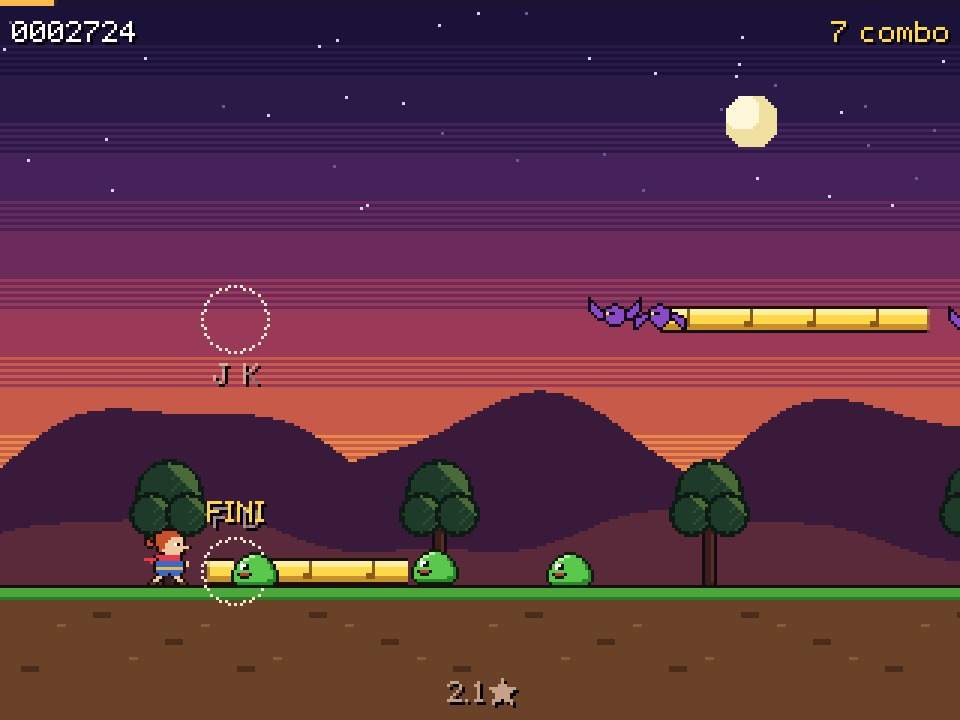
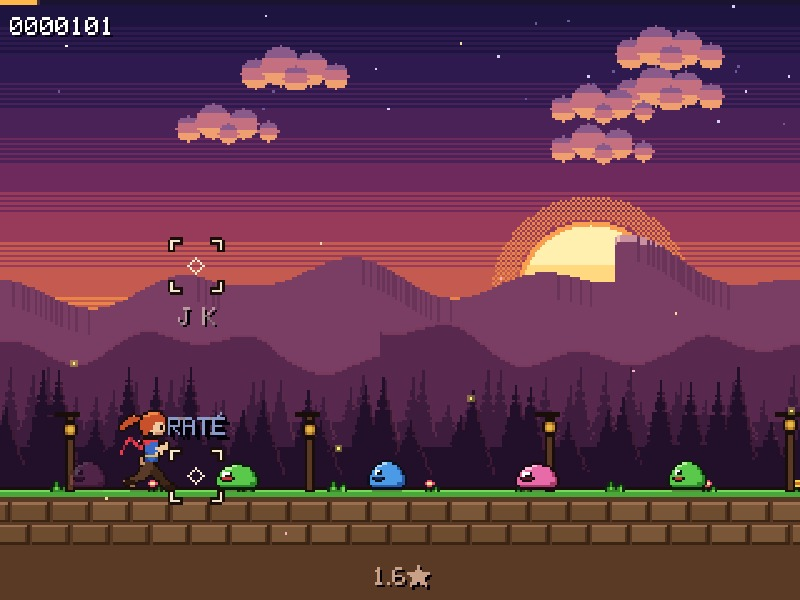
Nouvelle coureuse (course en 6 images, saut, coups d'épée, touchée) et nouveau décor animé (coucher de soleil, montagnes et forêts qui défilent, nuages, oiseaux, lanternes au rythme, pétales)

diff --git a/index.js b/index.js
@@ -1058,17 +1058,11 @@ function cvUp(kind, now) {  // lâcher : un ruban en cours s'arrête là (sauf d
   now ??= rhNow();
   for (const n of rh.notes) if (n.holding && n.kind === kind) { cvSettle(n, now); n.holding = false; n.done = true; if (now < n.end - .1) n.broke = true; else cvFx(n, [0, 'FINI', 0, '#ffd84a'], true); }
 }
-/* le dessin : ciel du soir, nuages, montagnes, collines qui défilent, chemin ; la coureuse à gauche, les cibles sur les deux voies */
-const CV_PAL = {k: '#1a0e0a', h: '#c8502a', H: '#f08a4a', s: '#f0c8a0', S: '#c8906a', w: '#ffffff', e: '#1a0e0a', r: '#e83a4a', R: '#a82a3a', b: '#3a6ac8', B: '#2a4a98', y: '#e8b84a', p: '#5a3a28'};
-const CV_TOP = ['.......kkkkk........', '.....kkhhhhhkk......', '....khhHHHhhhhk.....', '...khhHHhhhhhhhk....', '...khhhhhhhhhsssk...', '..khhhhhhhhsssssk...', '..khhhhhhhsssswesk..', '..khhhkhhhsssswesk..', '...khhhhhsssssSSk...', '....khhhkkksssk.....',
-  '...krrrrrrrrrrrk....', '...kRRrrrrrrrrRk....', '....kbbbbbbbbbkss...', '...kbbbbbbbbbbbkss..', '...kBbbbbbbbbbbkk...', '...kyyyyyyyyyyyk....', '...kBbbbbbbbbbBk....', '....kBBbbbbbBBk.....'];
-const CV_HERO = legs => spr([...CV_TOP, ...legs], CV_PAL);
-const CV_RUN = [  // quatre images de course : grande foulée, passage, l'autre foulée, genou levé
-  CV_HERO(['...kssk....kssk.....', '..kssk......kssk....', '.kppk........kppk...', '.kppk.........kppk..', '.kkkk..........kkkk.']),
-  CV_HERO(['......ksssk.........', '......kssssk........', '.......kppk.........', '......kpppk.........', '......kkkkkk........']),
-  CV_HERO(['....kssk..kssk......', '...kssk....kssk.....', '..kppk......kppk....', '..kppk.......kppk...', '.kkkk.........kkkk..']),
-  CV_HERO(['......kssskssk......', '......kssk.ksk......', '......kppk.kppk.....', '.....kppk..kkkk.....', '.....kkkk...........'])];
-const CV_JUMP = CV_HERO(['.....kssk.kssk......', '....kppk...kppk.....', '....kkkk....kppk....', '.............kkk....', '....................']);
+/* le dessin : coucher de soleil, trois rangées de montagnes, deux forêts de sapins, nuages et oiseaux, chemin pavé avec ses lanternes ; tout défile
+   à sa vitesse (plus c'est loin, plus c'est lent) et bat la mesure ; la coureuse à gauche, les cibles sur les deux voies */
+const CV_PAL = {k: '#1a0e0a', h: '#c8502a', H: '#f08a4a', s: '#f0c8a0', S: '#c8906a', e: '#1a0e0a', b: '#3a6ac8', B: '#2a4a98', l: '#8ab8ff', y: '#e8b84a', r: '#e83a4a', R: '#a82a3a', p: '#5a3a28', P: '#3e2618', q: '#2a1810', c: '#e8f0ff', g: '#e8b84a'};
+const CV_F = Object.fromEntries(Object.entries({run0: ['..............................', '.............kkkkk............', '.......k...kkHHHHhk...........', '.....kkHkkkHHHhhhhhk..........', '....khhhhhkhhhhhhhhhk.........', '...khhhhhkhhhhhhhhhhk.........', '..khhhhkkkhhhhhhssshk.........', '.khhhkk..khhhhhsssesk.........', '.khhk....khhhhhsssesk.........', '..kk......khhhsssssSk.........', '..........khhkksSSSk..........', '...........kk..kkkk...........', '...........kkkkkk.............', '..........krrrrrrk..k.........', '..........kRrbbrRkkkSk........', '...........kbbblbkSSSk........', '...........kbbbblkSSSk........', '...........kbbbbbkSkk.........', '...........ksbbbbkSk..........', '..........kssbyyykk...........', '.........ksssbbbBk............', '.........ksssBbBBk............', '.........ksspppkk.............', '..........kPppppk.............', '.........kPPpppppk............', '.........kPPPpppppk...........', '........kPPPPPpppppk..........', '......kkPPPPPkkppppk..........', '....kkPPPPPPk..kppppk.........', '...kqqqqPkkk....kkpppk........', '...kqqqqk........kppppkk......', '....kkkk..........kpqqqqk.....', '...................kqqqqk.....', '....................kkkk......'], run3: ['..............................', '.............kkkkk............', '.......k...kkHHHHhk...........', '.....kkHkkkHHHhhhhhk..........', '....khhhhhkhhhhhhhhhk.........', '...khhhhhkhhhhhhhhhhk.........', '..khhhhkkkhhhhhhssshk.........', '.khhhkk..khhhhhsssesk.........', '.khhk....khhhhhsssesk.........', '..kk......khhhsssssSk.........', '..........khhkksSSSk..........', '...........kk..kkkk...........', '...........kkkkkk.............', '..........krrrrrrk..k.........', '..........kRrrbbbkkksk........', '...........kbbbbbksssk........', '...........kbbbbsssssk........', '...........kbbbbbsskk.........', '...........kBbbbsksk..........', '..........kkyyyyykk...........', '.........kSkBbbbBk............', '.........kSkBBbBBk............', '.........kSSpppkk.............', '..........kppppPk.............', '.........kpppppPPk............', '.........kppppPPPPk...........', '........kpppppPPPPPk..........', '......kkpppppkkPPPPk..........', '....kkppppppk..kPPPPk.........', '...kqqqqpkkk....kkPPPk........', '...kqqqqk........kPPPPkk......', '....kkkk..........kPqqqqk.....', '...................kqqqqk.....', '....................kkkk......'], run1: ['..............................', '..............................', '.............kkkkk............', '...........kkHHHHhk...........', '......kkkkkHHHhhhhhk..........', '....kkhHhhkhhhhhhhhhk.........', '...khhhhhkhhhhhhhhhhk.........', '..khhhhkkkhhhhhhssshk.........', '.khhhhk..khhhhhsssesk.........', '.khhhk...khhhhhsssesk.........', '.khhk.....khhhsssssSk.........', '..kk......khhkksSSSk..........', '...........kk..kkkk...........', '...........kkkkkk.............', '..........krrrbrrk............', '..........kRrbbrRkk...........', '...........kbbblbkSk..........', '...........kbbbblkSk..........', '...........kbbbbbkSk..........', '...........kBbbbbkk...........', '...........ksbsyyk............', '...........ksbsbBk............', '...........ksBsBBk............', '...........kspskk.............', '..........kPspspk.............', '..........kPpppppk............', '.........kPPppppppk...........', '......kkkPPPPPppppk...........', '.....kqqqqPPPkppppk...........', '.....kqqqqkkk.kpppk...........', '.....kPkPk.....kpk............', '......k.k......kpkk...........', '..............kqqqqk..........', '..............kqqqqk..........'], run4: ['..............................', '..............................', '.............kkkkk............', '...........kkHHHHhk...........', '......kkkkkHHHhhhhhk..........', '....kkhHhhkhhhhhhhhhk.........', '...khhhhhkhhhhhhhhhhk.........', '..khhhhkkkhhhhhhssshk.........', '.khhhhk..khhhhhsssesk.........', '.khhhk...khhhhhsssesk.........', '.khhk.....khhhsssssSk.........', '..kk......khhkksSSSk..........', '...........kk..kkkk...........', '...........kkkkkk.............', '..........krrrbrrk............', '..........kRrrbbRkk...........', '...........kbbbbbksk..........', '...........kbbbbsssk..........', '...........kbbbbsssk..........', '...........kBbbbbkk...........', '...........kyyyyyk............', '...........kBbbbBk............', '...........kBBbBBk............', '...........kpppkk.............', '..........kppppPk.............', '..........kppppPPk............', '.........kpppppPPPk...........', '......kkkpppppPPPPk...........', '.....kqqqqpppkPPPPk...........', '.....kqqqqkkk.kPPPk...........', '.....kpkpk.....kPk............', '......k.k......kPkk...........', '..............kqqqqk..........', '..............kqqqqk..........'], run2: ['.............kkkkk............', '......kkkk.kkHHHHhk...........', '....kkhHhhkHHHhhhhhk..........', '..kkhhhhkkkhhhhhhhhhk.........', '.khhhhhhhkhhhhhhhhhhk.........', '.khhhkkkkkhhhhhhssshk.........', '.khhhk...khhhhhsssesk.........', '..kkk....khhhhhsssesk.........', '..........khhhsssssSk.........', '..........khhkksSSSk..........', '...........kk..kkkk...........', '...........kkkkkk.............', '..........krrrbrrk............', '..........kRrrbbRk............', '...........kbbbbbk............', '...........kbbbbbkk...........', '...........kbbbbsssk..........', '...........kBbbbsssk..........', '..........kkyyybsssk..........', '.........kSkBbbbBkk...........', '.........kSkBBbBBk............', '.........kSSpppkk.............', '.........kSkpppPPk............', '..........kkpppPPk............', '...........kppppPPk...........', '...........kppppPPk...........', '...........kppppPPk...........', '............kpppPk............', '............kpppqk............', '............kpppqk............', '...........kpppkk.............', '...........kpppk..............', '..........kqqqqk..............', '..........kqqqqk..............'], run5: ['.............kkkkk............', '......kkkk.kkHHHHhk...........', '....kkhHhhkHHHhhhhhk..........', '..kkhhhhkkkhhhhhhhhhk.........', '.khhhhhhhkhhhhhhhhhhk.........', '.khhhkkkkkhhhhhhssshk.........', '.khhhk...khhhhhsssesk.........', '..kkk....khhhhhsssesk.........', '..........khhhsssssSk.........', '..........khhkksSSSk..........', '...........kk..kkkk...........', '...........kkkkkk.............', '..........krrrbrrk............', '..........kRrbbrRk............', '...........kbbblbk............', '...........kbbbblkk...........', '...........kbbbbbkSk..........', '...........kbbbbbkSk..........', '..........kssbyyykSk..........', '.........ksssbbbBkk...........', '.........ksssBbBBk............', '.........ksspppkk.............', '.........kskpppppk............', '..........kkpppppk............', '...........kppppppk...........', '...........kPPppppk...........', '...........kPPppppk...........', '............kPpppk............', '............kqqqqk............', '............kqqqqk............', '...........kPPpkk.............', '...........kPPPk..............', '..........kqqqqk..............', '..........kqqqqk..............'], jump: ['.......k.....kkkkk............', '...kkkkHkk.kkHHHHhk...........', '..khhhhhhhkHHHhhhhhk..........', '.khhhhhhhhkhhhhhhhhhk.........', '.khhhkkkkkhhhhhhhhhhk.........', '..kkk....khhhhhhssshk.........', '.........khhhhhsssesk.........', '.........khhhhhsssesk.........', '..........khhhsssssSsk........', '..........khhkksSSssk.........', '...........kk..kkssssk........', '........k..kkkkkksskk.........', '.......kSkkrrrbbsssk..........', '.......kSSkRrrbbbbk...........', '.......kSSSkbbblbk............', '........kkSkbbbblk............', '.........kSkbbbbbk............', '..........kkBbbbbk............', '...........kyyyyyk............', '...........kBbbbBk............', '...........kBBbBBk............', '...........kpppkkk............', '...........kppppppk...........', '..........kPpppppppk..........', '..........kPPppppppk..........', '..........kPPPkkpppk..........', '.........kPPPPkpppk...........', '........kkPPkkkppk............', '.......kqqqqkkqqqqk...........', '.......kqqqqkkqqqqk...........', '.......kPkPk.kpkpk............', '........k.k...k.k.............', '..............................', '..............................'], fall: ['..............................', '....kkkk.....kkkkk............', '..kkhhhHkk.kkHHHHhk...........', '.khhhhhhhhkHHHhhhhhk..........', '.khhhhhhhhkhhhhhhhhhk.........', '..kkkkkkkkhhhhhhhhhhk.........', '.........khhhhhhssshk.........', '.........khhhhhsssesk.........', '.........khhhhhsssesk.........', '..........khhhsssssSk.........', '..........khhkksSSSk..........', '...........kk..kkkk.k.k.......', '...........kkkkkk..ksksk......', '........kkkrrrrrrkkkssk.......', '.......kSSkRrrbbbbsssssk......', '.......kSSSkbbbbbbssskk.......', '........kSSkbbbblkskk.........', '.........kkkbbbbbkk...........', '...........kBbbbbk............', '...........kyyyyyk............', '...........kBbbbBk............', '...........kBBbBBk............', '...........kpppkk.............', '..........kPppppk.............', '.........kPPpppppk............', '.........kPPPppppk............', '.........kPPPpppppk...........', '.........kPPPkppppk...........', '........kPPPk.kpppk...........', '.......kPPPk...kppk...........', '......kqqqqk...kppkk..........', '......kqqqqk...kqqqqk.........', '.......kPkk....kqqqqk.........', '........k.......kkkk..........'], slashA0: ['.......k.....kkkkk............', '...kkkkHkk.kkHHHHhk...........', '..khhhhhhhkHHHhhhhhk..........', '.khhhhhhhhkhhhhhhhhhk.........', 'ckhhhkkkkkhhhhhhhhhhk.........', '.cckk...kkhhhhhhssshk.........', '...ccc.kgkhhhhhsssesk.........', '......ccgkhhhhhsssesk.........', '.......kggsshhsssssSk.........', '........kkssskksSSSk..........', '.........ksssk.kkkk...........', '........k.kssbkkk.............', '.......kSkkrsbbrrk............', '.......kSSkRrbbrRk............', '.......kSSSkbbblbk............', '........kkSkbbbblk............', '.........kSkbbbbbk............', '..........kkBbbbbk............', '...........kyyyyyk............', '...........kBbbbBk............', '...........kBBbBBk............', '...........kpppkkk............', '...........kppppppk...........', '..........kPpppppppk..........', '..........kPPppppppk..........', '..........kPPPkkpppk..........', '.........kPPPPkpppk...........', '........kkPPkkkppk............', '.......kqqqqkkqqqqk...........', '.......kqqqqkkqqqqk...........', '.......kPkPk.kpkpk............', '........k.k...k.k.............', '..............................', '..............................'], slashA1: ['........k.....kkkkk...........', '....kkkkHkk.kkHHHHhk..........', '...khhhhhhhkHHHhhhhhk.........', '..khhhhhhhhkhhhhhhhhhk........', '.khhhkkkkkkhhhhhhhhhhk........', '..kkk.....khhhhhhssshk........', '..........khhhhhsssesk........', '..........khhhhhsssesk........', '...........khhhsssssSk..k.....', '...........khhkksSSSk.kkgk.ccc', '............kk..kkkkkkskgcc...', '........k...kkkkkkkksssggk....', '.......kSkkkrrbbbbssssskk.....', '.......kSSSkRrrrrRssskk.......', '.......kSSSSkbbbbbskk.........', '........kkSSkbbbblk...........', '.........kSkkbbbbbk...........', '..........k.kBbbbbk...........', '............kyyyyyk...........', '............kBbbbBk...........', '............kBBbBBk...........', '............kppppk............', '...........kPpppppk...........', '...........kPppppppk..........', '..........kPPPpppppk..........', '..........kPPPPkpppk..........', '.........kPPPPkpppk...........', '........kkPPkkkppk............', '.......kqqqqkkqqqqk...........', '.......kqqqqkkqqqqk...........', '.......kPkPk.kpkpk............', '........k.k...k.k.............', '..............................', '..............................'], slashG0: ['..............................', '..............................', '.............kkkkk............', '...cc......kkHHHHhk...........', '....c.kkkkkHHHhhhhhk..........', '....kchHhhkhhhhhhhhhk.........', '...khhchhkhhhhhhhhhhk.........', '..khhhhckkhhhhhhssshk.........', '.khhhhkc.khhhhhsssesk.........', '.khhhk..cghhhhhsssesk.........', '.khhk..kggshhhsssssSk.........', '..kk....kksshkksSSSk..........', '.........ksssk.kkkk...........', '.........kssskkkk.............', '..........kssbbrrk............', '..........kRbbbrRk............', '...........kbbblbk............', '.........kkkbbbblk............', '........kSSkbbbbbk............', '.......kSSSkBbbbbk............', '.......kSSSkyyyyyk............', '........kkkkBbbbBk............', '...........kBBbBBk............', '...........kpppkk.............', '..........kPpppppk............', '.........kPPpppppkk...........', '........kPPPpppppppk..........', '........kPPPPkpppppk..........', '........kPPPPkpppppk..........', '.......kPPPPk.kkppppk.........', '......kPPPPk....kppppk........', '.....kkPPkk......kpppkkk......', '....kqqqqk........kpqqqqk.....', '....kqqqqk.........kqqqqk.....'], slashG1: ['..............................', '..............................', '..............kkkkk...........', '..........k.kkHHHHhk..........', '.......kkkhkHHHhhhhhk.........', '......khHhhkhhhhhhhhhk........', '....kkhhhhkhhhhhhhhhhk........', '...khhhhhkkhhhhhhssshk........', '...khhhkk.khhhhhsssesk........', '..khhhk...khhhhhsssesk........', '.khhhk.....khhhsssssSk........', '..kkk......khhkksSSSk.........', '............kk..kkkk..........', '............kkkkkk............', '...........krrbrbrk...........', '...........kRrrbbRk...........', '...........kkbbbbbskk.........', '.........kkBkbbbbbssskk.......', '........kSSSkbbbbbssssskk.....', '.......kSSSSkBbbbbkksssggk....', '.......kSSSkkyyyyyk.kkskgccc..', '........kkk.kBbbbBk...k.k...cc', '............kBBbBBk...........', '............kpppkk............', '...........kPppppk............', '..........kPPppppkk...........', '.........kPPPppppppk..........', '........kPPPPPpppppk..........', '........kPPPPkkppppk..........', '.......kPPPPk..kppppk.........', '......kPPPPk....kppppk........', '.....kkPPkk......kpppkkk......', '....kqqqqk........kpqqqqk.....', '....kqqqqk.........kqqqqk.....'], hurt: ['..............................', '...........kkkkk..............', '.........kkHHHHhk.............', '....kkkkkHHHhhhhhk............', '...khHhhkhhhhhhhhhk...........', '..kkhhhkhhhhhhhhhhk...........', '.khhhhkkhhhhhhssshk...........', 'khhhhk.khhhhhsssesk...........', 'hhhkk..khhhhhssssssk..........', 'hhhk....khhhssssssk...........', 'hhk.....khhkksSSssk...........', 'kk.......kkSkkbbssk...........', '.........kSSSbbbsk............', '........krrrbbbbk.............', '........kRrrbbbk..............', '.........kbbblbk..............', '.........kbbbblk..............', '.........kbbbbbk..............', '.........kBbbbbk..............', '.........kyyyyyk..............', '.........kBbbbBk..............', '.........kBBbBBk..............', '.........kpppkk...............', '.........kppppk...............', '........kPpppppk..............', '........kPPppppk..............', '........kPPpppppk.............', '........kPPPppppk.............', '........kPPPkpppk.............', '.......kPPPk.kppk.............', '.......kPPPk.kppkk............', '......kqqqqk.kqqqqk...........', '......kqqqqk.kqqqqk...........', '.......kkkk...kkkk............']}).map(([k, rows]) => [k, spr(rows, CV_PAL)]));
+const CV_RUN = [0, 1, 2, 3, 4, 5].map(i => CV_F['run' + i]);
 const cvVar = (rows, pals) => pals.map(p => spr(rows, p));
 const CV_SLIME_ROWS = ['......kkkk......', '....kkGGggkk....', '...kGGggggggk...', '..kGggggggggdk..', '.kgwwkgggggggdk.', '.kgwkkgggggggdk.', 'kgggggggggggggdk', 'kgkmmmkgggggggdk', 'kggkkkggggggggdk', 'kgggggggggggdddk', '.kddddddddddddk.', '..kkkkkkkkkkkk..'];
 const CV_SLIME = cvVar(CV_SLIME_ROWS, [  // trois couleurs de gelée : verte, bleue, rose
@@ -1081,56 +1075,87 @@ const CV_BAT_PALS = [{k: '#140a1a', p: '#8a4ac8', w: '#ffe84a', e: '#140a1a'}, {
 const CV_BAT = CV_BAT_PALS.map(p => CV_BAT_ROWS.map(r => spr(r, p)));  // [couleur][battement]
 const CV_GHOST = spr(['.....kkkkkk.....', '...kkwwwwwwkk...', '..kwwwwwwwwwwk..', '.kwwwwwwwwwwwwk.', '.kwwkkwwwkkwwwk.', '.kwwkkwwwkkwwwk.', '.kwwwwwwwwwwwwk.', '.kwwwwwkkwwwwwk.', '.kwwwwwwwwwwwwk.', '.kwwwwwwwwwwwwk.', '.kwkwwkwwkwwkwk.', '.kk.kk.kk.kk.kk.'], {k: '#1a2038', w: '#d8e8ff'});
 const cvMob = (kind, i) => kind === 'air' ? (i % 5 === 4 ? CV_GHOST : CV_BAT[i % 2][Math.floor(rh.tick / 8 + i) % 2]) : CV_SLIME[i % 3];
-const CV_BG = cnv(W, H, b => {  // le ciel du soir tramé, la lune et son halo, les montagnes au loin avec leurs crêtes (dessinés une fois)
-  const sky = ['#1a1238', '#2a1a48', '#46225a', '#6a2a5a', '#9a3a58', '#c85a4a', '#e8884a'];
-  for (let y = 0; y < CV.FLOOR; y++) { const f = y / (CV.FLOOR - 40) * (sky.length - 1), i = Math.min(sky.length - 1, Math.floor(f)); px(b, (f - i > .5 && y % 2) ? sky[Math.min(sky.length - 1, i + 1)] : sky[i], 0, y, W, 1); }
-  for (let y = -16; y <= 16; y++) for (let x = -16; x <= 16; x++) { const d = Math.hypot(x, y); if (d >= 9 && d < 16 && (x + y) % 2 === 0) px(b, d < 12 ? '#4a3a6a' : '#3a2a5a', 250 + x, 40 + y); }
-  for (let y = -9; y <= 9; y++) for (let x = -9; x <= 9; x++) { const d = Math.hypot(x, y); if (d < 9) px(b, Math.hypot(x - 3, y + 2) < 2.2 || Math.hypot(x + 3, y - 3) < 1.6 ? '#e0cc90' : Math.hypot(x + 3, y + 3) < 6 ? '#fff8d8' : '#f0e0a0', 250 + x, 40 + y); }
-  for (let x = 0; x < W; x++) { const h = 40 + Math.round(Math.abs(Math.sin(x / 37)) * 22 + Math.sin(x / 13) * 4); px(b, '#3a1a3a', x, CV.FLOOR - h, 1, h); px(b, '#5a2a4a', x, CV.FLOOR - h, 1, 1); if (Math.cos(x / 37) * Math.sin(x / 37) > .2) px(b, '#4a2240', x, CV.FLOOR - h + 1, 1, 3); }
-});
+const cvHash = n => { const x = Math.sin(n * 127.1 + 311.7) * 43758.5453; return x - Math.floor(x); };
+// une bande de décor de 320 de large qui se répète : f(b, x) dessine la colonne x
+const cvBand = (h, f) => cnv(W, h, b => { for (let x = 0; x < W; x++) f(b, x); });
+const cvWrap = (img, off, y) => { const x = -(((Math.floor(off) % W) + W) % W); g.drawImage(img, x, y); g.drawImage(img, x + W, y); };
 const CV_STARS = (() => { const r = seeded(4); return Array.from({length: 46}, () => [Math.floor(r() * W), Math.floor(r() * 80), Math.floor(r() * 60)]); })();
-const CV_CLOUD = cnv(40, 12, b => {  // un nuage du soir, éclairé par-dessous
-  for (const [cx, cy, rr] of [[10, 7, 5], [19, 5, 6], [29, 7, 5], [16, 8, 4], [24, 8, 4]]) for (let y = -rr; y <= rr; y++) for (let x = -rr; x <= rr; x++) if (Math.hypot(x, y) <= rr) px(b, y > rr * .4 ? '#c86a6a' : y < -rr * .5 ? '#8a5a8a' : '#a85a78', cx + x, cy + y);
+const CV_SKY = cnv(W, H, b => {  // le ciel tramé du violet au orange, le grand soleil coupé de bandes
+  const sky = ['#1e1440', '#2e1a4e', '#4a2258', '#6e2a5c', '#983a5a', '#c45a50', '#e8844a', '#f8b060'];
+  for (let y = 0; y < H; y++) { const f = Math.min(sky.length - 1.001, y / 150 * (sky.length - 1)), i = Math.floor(f); px(b, (f - i > .5 && (y % 2)) ? sky[i + 1] : sky[i], 0, y, W, 1); }
+  for (let y = -30; y <= 30; y++) for (let x = -30; x <= 30; x++) { const d = Math.hypot(x, y); if (d > 30) continue; const yy = 118 + y; if (y > 4 && (y % 6) < (y - 4) / 5) continue;
+    px(b, d > 28 ? '#f8a050' : y < -12 ? '#fff0b0' : y < 4 ? '#ffd880' : '#ffb860', 236 + x, yy); }
+  for (let y = -40; y <= 40; y++) for (let x = -40; x <= 40; x++) { const d = Math.hypot(x, y); if (d > 31 && d < 40 && (x + y) % 2 === 0 && 118 + y < 150) px(b, '#e8844a', 236 + x, 118 + y); }
 });
-const CV_TREE = cnv(28, 44, b => {  // un arbre rond : tronc, feuillage en trois boules, lumière du couchant à droite
-  px(b, '#140a10', 12, 22, 5, 22); px(b, '#3a1e1e', 13, 22, 3, 22); px(b, '#5a2e24', 15, 26, 1, 16);
-  for (const [cx, cy, r] of [[14, 12, 11], [8, 19, 7], [20, 19, 7]]) for (let y = -r; y <= r; y++) for (let x = -r; x <= r; x++) {
-    const d = Math.hypot(x, y); if (d > r + .3) continue;
-    px(b, d > r - 1 ? '#0e1a14' : (x - y > r * .8 && d > r * .5) ? '#4a6a3a' : (x + y + 64) % 4 === 0 && x > 0 ? '#2e4a30' : '#1e3a28', cx + x, cy + y);
-  }
+const cvRidge = (x, s, a, k) => a * (.55 * Math.abs(Math.sin(x / (47 * s) + k)) + .3 * Math.sin(x / (19 * s) + k * 2) + .15 * Math.sin(x / (7 * s) + k)) ;
+const CV_MOUNT1 = cvBand(90, (b, x) => {  // les montagnes au loin : sommets enneigés, côté éclairé par le couchant
+  const t = 90 - Math.round(36 + cvRidge(x, 1.6, 34, 1)), l = 90 - Math.round(36 + cvRidge(x - 1, 1.6, 34, 1));
+  px(b, '#7a3e64', x, t, 1, 90 - t); if (t < 30) px(b, l > t ? '#f0c0b0' : '#c890a0', x, t, 1, Math.max(1, Math.round((30 - t) * .5)));
+  if (t > l) px(b, '#6a3458', x, t, 1, Math.min(10, 90 - t));
 });
-const CV_TUFT = [spr(['..k.....', '.kgk..k.', '.kgk.kgk', 'kgGgkgGk', 'kgggggGk'], {k: '#0e2a0e', g: '#3a8a2a', G: '#7ad85a'}),
-  spr(['..rr....', '.rwwr...', '..rr..k.', '...k.kgk', '..kgkgGk'], {k: '#0e2a0e', g: '#3a8a2a', G: '#7ad85a', r: '#e8506a', w: '#ffe8a0'}),
-  spr(['.yy.....', 'yooy....', '.yy..k..', '..k.kgk.', '.kgkgGgk'], {k: '#0e2a0e', g: '#3a8a2a', G: '#7ad85a', y: '#f8d84a', o: '#c8702a'})];
+const CV_MOUNT2 = cvBand(80, (b, x) => { const t = 80 - Math.round(28 + cvRidge(x, 1.1, 26, 4)); px(b, '#58284e', x, t, 1, 80 - t); px(b, '#7a3a5e', x, t, 1, 1); });
+const cvPines = (h, col, lit, s, seed) => cnv(W, h, b => {  // une forêt de sapins en silhouette, quelques cimes éclairées
+  px(b, col, 0, h - 8 - Math.round(7 * s), W, 8 + Math.round(7 * s));  // le pied de la forêt, sans trou de ciel entre les troncs
+  for (let k = 0; k < W / (8 * s); k++) { const cx = Math.round(k * 8 * s + cvHash(k + seed) * 6 * s), th = Math.round((14 + cvHash(k * 3 + seed) * 16) * s);
+    for (let y = 0; y < th; y++) { const w = Math.max(0, Math.floor(y / th * 6 * s + ((y % Math.round(4 * s)) === 0 ? -1 : 0))); px(b, col, cx - w, h - 8 - th + y, w * 2 + 1, 1); if (y > 2 && w > 0) px(b, lit, cx + w, h - 8 - th + y, 1, 1); }
+    px(b, col, cx, h - 8, 1, 2); }
+});
+const CV_PINE1 = cvPines(56, '#3e1c3e', '#5a2a4a', 1, 1), CV_PINE2 = cvPines(78, '#22102a', '#3e1a34', 1.5, 7);
+const CV_CLOUDS = [0, 1].map(v => cnv(64, 18, b => {  // deux nuages : ventre doré, dessus violet
+  for (const [cx, cy, rr] of [[14, 11, 6], [24, 8, 8], [36, 9, 7], [46, 12, 5], [30, 13, 5]].map(([a, c, r]) => [a + v * 4, c, r - v])) for (let y = -rr; y <= rr; y++) for (let x = -rr; x <= rr; x++) if (Math.hypot(x, y) <= rr) px(b, y > rr * .35 ? '#f0a070' : y < -rr * .45 ? '#8a5a8a' : '#c47080', cx + x, cy + y);
+}));
+const CV_LANTERN = [0, 1].map(on => spr(['..kk..', '.kkkk.', 'kyooyk', 'koOOok', 'koOOok', 'kyooyk', '.kkkk.', '..kk..'], {k: '#1a0e0a', y: '#8a5a28', o: on ? '#ffd860' : '#c8902a', O: on ? '#fff8d0' : '#e8b84a'}));
+const CV_TUFT = [0, 1].map(f => [spr(['..k.....', '.kgk..k.', '.kgk.kgk', 'kgGgkgGk', 'kgggggGk'], {k: '#0e2a0e', g: '#3a8a2a', G: '#7ad85a'}),
+  spr([f ? '...rr...' : '..rr....', f ? '..rwwr..' : '.rwwr...', f ? '...rr.k.' : '..rr..k.', '...k.kgk', '..kgkgGk'], {k: '#0e2a0e', g: '#3a8a2a', G: '#7ad85a', r: '#e8506a', w: '#ffe8a0'}),
+  spr([f ? '..yy....' : '.yy.....', f ? '.yooy...' : 'yooy....', f ? '..yy.k..' : '.yy..k..', '..k.kgk.', '.kgkgGgk'], {k: '#0e2a0e', g: '#3a8a2a', G: '#7ad85a', y: '#f8d84a', o: '#c8702a'})]);
+const CV_BIRD = [spr(['k...k', '.k.k.', '..k..'], {k: '#2a1430'}), spr(['.....', 'kkkkk', '..k..'], {k: '#2a1430'})];
 function cvScene(now, beat) {
-  const bpm = rh.info?.bpm || 120, pxs = CV.PPB * bpm / 60, run = rh.mode === 'play' ? Math.max(0, now) * pxs : rh.tick;
-  g.drawImage(CV_BG, 0, 0);
-  for (const [x, y, ph] of CV_STARS) { const tw = (rh.tick + ph * 7) % 90; px(g, tw < 6 ? '#ffffff' : tw < 40 ? '#d8d0f8' : '#6a5a98', x, y); if (tw < 3) { px(g, '#ffffff', x - 1, y); px(g, '#ffffff', x + 1, y); px(g, '#ffffff', x, y - 1); px(g, '#ffffff', x, y + 1); } }
-  for (let k = Math.floor(run * .08 / 110) - 1; ; k++) { const x = Math.round(k * 110 - run * .08); if (x > W) break; g.drawImage(CV_CLOUD, x, 22 + ((k * 37) % 3 + 3) % 3 * 14); }  // les nuages, très lents
-  for (let x = -40; x < W + 40; x++) { const wx = x + run * .3, h = 18 + Math.round(Math.sin(wx / 29) * 7 + Math.sin(wx / 11) * 2); px(g, '#5a2a3a', x, CV.FLOOR - h, 1, h); px(g, '#7a3a48', x, CV.FLOOR - h, 1, 1); }  // les collines, plus lentes
-  for (let k = Math.floor(run * .5 / 90) - 1; ; k++) { const x = Math.round(k * 90 - run * .5); if (x > W) break; g.drawImage(CV_TREE, x + 8, CV.FLOOR - 44); }  // les arbres
-  px(g, '#1a0e0a', 0, CV.FLOOR - 1, W, 1); px(g, '#4aa83a', 0, CV.FLOOR, W, 3); px(g, '#7ad85a', 0, CV.FLOOR, W, 1); px(g, '#2a7a2a', 0, CV.FLOOR + 3, W, 1); px(g, '#6a4228', 0, CV.FLOOR + 4, W, H - CV.FLOOR - 4);  // le chemin, à la vitesse des monstres
-  for (let k = Math.floor(run / 24) - 1; ; k++) { const x = Math.round(k * 24 - run); if (x > W) break; px(g, '#4a2c1a', x, CV.FLOOR + 8 + (k % 3) * 9, 6, 2); px(g, '#8a5a38', x, CV.FLOOR + 7 + (k % 3) * 9, 6, 1); px(g, '#8a5a38', x + 12, CV.FLOOR + 12 + (k % 2) * 11, 3, 1); }
-  for (let k = Math.floor(run / 37) - 1; ; k++) { const x = Math.round(k * 37 - run); if (x > W) break; g.drawImage(CV_TUFT[((k % 3) + 3) % 3], x, CV.FLOOR - 4); }  // herbes et fleurs au bord du chemin
+  const bpm = rh.info?.bpm || 120, pxs = CV.PPB * bpm / 60, run = (rh.mode === 'play' ? Math.max(0, now) * pxs : 0) + rh.tick * .6, t = rh.tick, pulse = rh.mode === 'play' ? Math.max(0, 1 - (beat % 1) * 3) : 0;
+  g.drawImage(CV_SKY, 0, 0);
+  for (const [x, y, ph] of CV_STARS) { const tw = (t + ph * 7) % 90; if (y < 50) px(g, tw < 6 ? '#ffffff' : tw < 40 ? '#d8d0f8' : '#6a5a98', x, y); }
+  const ss = t % 420; if (ss < 24) { const sx = 60 + (t / 420 | 0) * 97 % 180 + ss * 4, sy = 10 + ss * 1.5; for (let k = 0; k < 8; k++) px(g, k ? '#c8b8f0' : '#ffffff', sx - k * 2, sy - k * .75, 1, 1); }  // une étoile filante
+  CV_CLOUDS.forEach((c, v) => { for (let k = -1; k < 4; k++) { const x = Math.round(((k * 150 + v * 70 - (run * (.04 + v * .03) + t * (.05 + v * .04))) % 600 + 600) % 600 - 80); g.drawImage(c, x, 18 + v * 22 + (k % 2) * 8); } });
+  for (let k = 0; k < 4; k++) { const bx = ((t * .5 + k * 9 + 400) % 520) - 100, by = 52 + k * 5 + Math.sin(t / 20 + k) * 2; if (Math.floor(t / 520 * .5) % 2 === 0) g.drawImage(CV_BIRD[((t >> 3) + k) % 2], Math.round(W - bx - (k % 2) * 8), Math.round(by)); }  // des oiseaux qui traversent
+  cvWrap(CV_MOUNT1, run * .04, 70); cvWrap(CV_MOUNT2, run * .09, 96);
+  if (pulse > 0) { g.globalAlpha = pulse * .18; px(g, '#ffd880', 0, 150, W, 26); g.globalAlpha = 1; }  // l'horizon s'allume sur le temps fort
+  cvWrap(CV_PINE1, run * .18, 128); cvWrap(CV_PINE2, run * .32, CV.FLOOR - 76);
+  px(g, '#1a0e0a', 0, CV.FLOOR - 1, W, 1); px(g, '#4aa83a', 0, CV.FLOOR, W, 3); px(g, '#7ad85a', 0, CV.FLOOR, W, 1);
+  px(g, '#5a3a24', 0, CV.FLOOR + 3, W, H - CV.FLOOR - 3);
+  for (let k = Math.floor(run / 16) - 1; ; k++) { const x = Math.round(k * 16 - run); if (x > W) break;  // les pavés, deux rangées décalées
+    for (const [r, o] of [[0, 0], [1, 8]]) { const yy = CV.FLOOR + 5 + r * 9, xx = x + o, c = cvHash(k * 2 + r) > .5 ? '#7a5638' : '#6e4c30'; px(g, '#3a2414', xx, yy, 15, 8); px(g, c, xx, yy, 14, 7); px(g, '#9a7050', xx, yy, 14, 1); px(g, '#4e3220', xx + 13, yy + 1, 1, 6); } }
+  for (let k = Math.floor(run / 37) - 1; ; k++) { const x = Math.round(k * 37 - run); if (x > W) break; g.drawImage(CV_TUFT[(t >> 4) % 2][((k % 3) + 3) % 3], x, CV.FLOOR - 4); }  // herbes et fleurs qui bougent au vent
+  for (let k = Math.floor(run / 96) - 1; ; k++) { const x = Math.round(k * 96 + 70 - run); if (x > W + 8) break;  // les poteaux et leurs lanternes, qui brillent au temps fort
+    px(g, '#1a0e0a', x - 1, CV.FLOOR - 30, 4, 31); px(g, '#5a3a24', x, CV.FLOOR - 30, 2, 30); px(g, '#1a0e0a', x - 5, CV.FLOOR - 31, 10, 2);
+    if (pulse > .3) { g.globalAlpha = pulse * .35; for (let r = 9; r > 2; r -= 3) px(g, '#ffd860', x - 2 - r, CV.FLOOR - 24 - r, 6 + r * 2, 8 + r * 2); g.globalAlpha = 1; }
+    g.drawImage(CV_LANTERN[pulse > .3 ? 1 : 0], x - 2, CV.FLOOR - 29 + Math.round(Math.sin(t / 15 + k)), ); }
+  for (let i = 0; i < 9; i++) {  // pétales qui tombent en tournoyant
+    const fx = ((i * 71 - run * .7 - t * .3) % (W + 20) + W + 20) % (W + 20) - 10, fy = ((t * (.35 + (i % 3) * .15) + i * 53) % 210) + 10, sw = Math.round(Math.sin(t / 12 + i) * 2);
+    px(g, i % 2 ? '#f8b0c0' : '#ffd8a0', fx + sw, fy, (t >> 3) % 2 ? 2 : 1, 1); }
   for (let i = 0; i < 7; i++) {  // les lucioles, qui clignotent au rythme
-    const fx = ((i * 53 - run * .4) % (W + 20) + W + 20) % (W + 20) - 10, fy = 120 + Math.sin(rh.tick / 30 + i * 2) * 18 + i * 6;
+    const fx = ((i * 53 - run * .4) % (W + 20) + W + 20) % (W + 20) - 10, fy = 150 + Math.sin(t / 30 + i * 2) * 14 + i * 4;
     if ((beat + i * .37) % 1 < .6) { px(g, '#fff8a0', fx, fy, 1, 1); g.globalAlpha = .35; px(g, '#f8e84a', fx - 1, fy - 1, 3, 3); g.globalAlpha = 1; }
   }
+  if (rh.combo >= 20 && rh.mode === 'play') { g.globalAlpha = .25; for (let i = 0; i < 6; i++) px(g, '#fff0d0', ((i * 97 - t * 9) % W + W) % W, 30 + i * 27, 24, 1); g.globalAlpha = 1; }  // lignes de vitesse quand le combo monte
 }
 function cvHero(beat) {
-  const air = rh.tick - rh.jumpAt < 14 || rh.held.air > 0, ground = CV.FLOOR - 23;
-  const y = air ? CV.AY - 12 : ground - (rh.mode === 'play' && beat % 1 < .2 ? 1 : 0), x = CV.HX - 18;
-  const hurt = rh.tick - rh.hurt < 16;
-  if (hurt && rh.tick % 4 < 2) g.globalAlpha = .4;
-  for (let i = 0; i < 9; i++) px(g, i % 3 === 2 ? '#a82a3a' : '#e83a4a', x + 3 - i, y + 10 + Math.round(Math.sin(rh.tick / 4 - i * .7) * (1 + i / 4)), 1, 2);  // l'écharpe qui flotte derrière
-  g.drawImage(air ? CV_JUMP : CV_RUN[Math.floor(rh.tick / 5) % 4], x, y); g.globalAlpha = 1;
-  if (air) for (let k = 0; k < 3; k++) px(g, 'rgba(255,240,200,.35)', x - 4 - k * 5, y + 8 + k * 3, 4, 1);  // le saut, en l'air
-  else if (rh.mode === 'play' && rh.tick % 10 < 4) px(g, '#8a5a38', x + 2 - (rh.tick % 10), CV.FLOOR - 2, 2, 1);  // la poussière des pas
-  const sw = rh.swing; if (sw && rh.tick - sw.at < 9) {  // le coup d'épée : la lame tendue et un croissant de lumière sur la voie frappée
-    const sy = cvY(sw.kind), p = (rh.tick - sw.at) / 9, cx = CV.HX + 6;
-    if (p < .5) { px(g, '#1a0e0a', x + 16, y + 12, 11, 3); px(g, '#e8f0ff', x + 17, y + 13, 9, 1); px(g, '#e8b84a', x + 15, y + 12, 2, 3); }
+  const t = rh.tick, sw = rh.swing && t - rh.swing.at < 10 ? rh.swing : null, hurt = t - rh.hurt < 16;
+  const air = t - rh.jumpAt < 16 || rh.held.air > 0, x = CV.HX - 18;
+  const y = air ? CV.AY - 17 - (t - rh.jumpAt < 6 ? 6 - (t - rh.jumpAt) : 0) : CV.FLOOR - 33;
+  let f = CV_RUN[Math.floor(t / 4) % 6];
+  if (hurt) f = CV_F.hurt;
+  else if (sw) f = CV_F[(sw.kind === 'air' ? 'slashA' : 'slashG') + (t - sw.at < 3 ? 0 : 1)];
+  else if (air) f = t - rh.jumpAt < 8 ? CV_F.jump : CV_F.fall;
+  else if (rh.mode !== 'play') f = CV_RUN[Math.floor(t / 7) % 6];
+  if (hurt && t % 4 < 2) g.globalAlpha = .45;
+  for (let i = 0; i < 10; i++) px(g, i % 3 === 2 ? '#a82a3a' : '#e83a4a', x + 11 - i, y + 14 + Math.round(Math.sin(t / 4 - i * .7) * (1 + i / 4)), 1, 2);  // l'écharpe qui flotte derrière
+  if (!air) { g.globalAlpha *= .35; px(g, '#1a0e0a', x + 6, CV.FLOOR - 1, 18, 2); g.globalAlpha = hurt && t % 4 < 2 ? .45 : 1; }
+  g.drawImage(f, x, y); g.globalAlpha = 1;
+  if (air) for (let k = 0; k < 3; k++) px(g, 'rgba(255,240,200,.35)', x - 2 - k * 5, y + 12 + k * 4, 5, 1);  // le saut, en l'air
+  else if (rh.mode === 'play' && t % 12 < 5) { px(g, '#9a7050', x + 6 - (t % 12), CV.FLOOR - 2, 2, 1); px(g, '#9a7050', x + 3 - (t % 12), CV.FLOOR - 4, 1, 1); }  // la poussière des pas
+  if (sw && t - sw.at >= 2) {  // le coup d'épée : un croissant de lumière sur la voie frappée
+    const sy = cvY(sw.kind), p = (t - sw.at - 2) / 8, cx = CV.HX + 6;
     g.globalAlpha = 1 - p;
-    for (let a = -1.3; a <= 1.3; a += .06) { const r1 = 12 + p * 6, th = Math.round((1.4 - Math.abs(a)) * 3); for (let t = 0; t < th; t++) px(g, t === 0 ? '#ffffff' : '#ffd88a', cx + Math.cos(a) * (r1 - t), sy + Math.sin(a) * (r1 - t), 1, 1); }
+    for (let a = -1.3; a <= 1.3; a += .05) { const r1 = 13 + p * 7, th = Math.round((1.4 - Math.abs(a)) * 3); for (let k = 0; k < th; k++) px(g, k === 0 ? '#ffffff' : '#ffd88a', cx + Math.cos(a) * (r1 - k), sy + Math.sin(a) * (r1 - k), 1, 1); }
     g.globalAlpha = 1;
   }
 }
